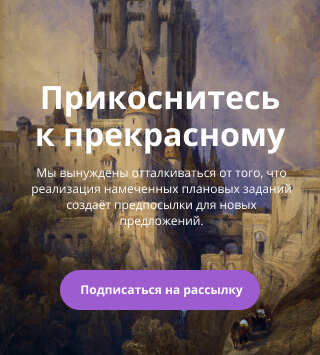
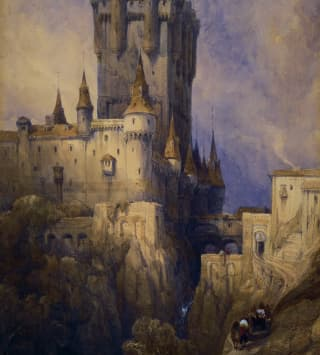
fix adaptiv

Changed region(s): [[0.0938, 0.2169, 0.9062, 0.4338], [0.1875, 0.7437, 0.8125, 0.8986], [0.0938, 0.4648, 0.9062, 0.6507]]

diff --git a/css/media.css b/css/media.css
@@ -2,11 +2,6 @@
   :root {
     --container-padding: calc(12.28vw - 75.714px);
   }
-  .container {
-    /* padding-left: calc(12.28vw - 75.714px);
-    padding-right: calc(12.28vw - 75.714px); */
-  }
-
   .menu__item {
     margin-right: calc(5.56vw - 41.667px);
   }
@@ -144,7 +139,6 @@
 
   .gallery-slider {
     max-width: 64.5%;
-    /* margin-right: -50px; */
   }
   .gallery-slider .slider__navigation {
     padding-left: 1px;
@@ -153,10 +147,6 @@
   .gallery__body {
     height: 591px;
   }
-
-  /* .gallery-slider.swiper-container {
-  }*/
-
   .gallery-slider.swiper-container > .swiper-wrapper {
     height: 602px;
   }
@@ -679,20 +669,6 @@
   .select__buttom:not(:last-child) {
     margin-right: 0;
   }
-  /* 
-  .catalog__head-text {
-    display: none;
-  }
-
-  .catalog__body {
-    flex-direction: column-reverse;
-    padding-left: 0;
-  }
-
-  .catalog__col-right,
-  .catalog__col-left {
-    flex: 0 0 100%;
-  } */
 }
 
 @media (max-width: 650px) {
@@ -750,10 +726,10 @@
     height: 19px;
   }
   .hero {
-    padding-top: 0;
+    padding-top: calc(12.99vw - 41.571px);
   }
   .hero__slider {
-    height: 355px;
+    height: calc(89.43vw + 68.837px);
   }
   .hero__slide-1 {
     background: url("../img/hero/hero-1-320.jpg") 50% / cover no-repeat;
@@ -770,7 +746,7 @@
 
   .hero__solutions {
     padding-left: 0;
-    padding-bottom: 10px;
+    padding-bottom: calc(34.44vw - 100.21px);;
     top: calc(40.61vw - 121.94px);
     text-align: center;
   }
@@ -795,7 +771,7 @@
 
   .solutions__button {
     margin-top: 0;
-    padding: 8px 13px;
+    padding: calc(3.93vw - 4.468px) calc(5.74vw - 5.3686px);
     font-size: calc(1.82vw + 6.1818px);
   }
 
@@ -880,7 +856,7 @@
     height: 32px;
   }
   .col-right__header::after {
-    top: 44%;
+    top: 50%;
     right: 13px;
     width: 7px;
     height: 7px;
@@ -913,6 +889,9 @@
     width: 100%;
     margin-bottom: 9px;
   }
+  .developments__event-card:not(:nth-child(2n + 2)) {
+    margin-right: 0;
+}
   .deactivated {
     display: block;
   }
@@ -1067,7 +1046,7 @@
     padding: 12px 36px;
   }
   .projects {
-    margin-bottom: 34px;
+    margin-bottom: 43px;
   }
   .projects__header {
     margin-bottom: -1px;
@@ -1089,28 +1068,82 @@
     margin-right: 0;
   }
   .projects-slider__slide-img {
-    width: calc(13.6vw + 11.495px);
+    width: calc(32.02vw + 1.5227px);
   }
   .projects-slider__btn-next,
   .projects-slider__btn-prev {
     top: calc(6.34vw - 2.3021px);
   }
+  .first-header_contacts {
+    margin-bottom: 6px;
+    line-height: 1.8;
+  }
   .contacts__body {
     height: auto;
   }
-
-  .contacts__colum-left_address {
-    padding-top: 20px;
-    padding-bottom: 20px;
-  }
-
   .contacts__colum-left {
     width: 100%;
     margin-left: 0;
-    padding-left: 0;
+    padding-right: 14px;
+    padding-left: 14px;
   }
-
+  .contacts__colum-left_address {
+    padding-top: 0;
+    padding-bottom: 11px;
+    padding-right: 10px;
+  }
+  .contacts__colum-left_address > p {
+    font-size: 14px;
+  }
+  .contacts__colum-left_form {
+    order: 2;
+    margin-bottom: 38px;
+  }
+  .second-header_contacts,
+  .second-header_form,
+  .second-header__link {
+    font-size: 18px;
+  }
+  .second-header_form {
+    margin-bottom: 15px;
+  }
+  .second-header_contacts {
+    line-height: 1;
+    margin-bottom: -2px;
+  }
+  .request__input {
+    padding: 8px 20px;
+  }
+  .request__btn {
+    max-width: 129px;
+    padding-top: 12px;
+    padding-bottom: 11px;
+    margin-bottom: 18px;
+    font-size: 12px;
+  }
   .contacts__map {
     width: 100%;
+    height: 320px;
+    margin-bottom: 18px;
   }
+  .footer__container {
+    padding-top: 6px;
+    padding-bottom: 5px;
+  }
+  .footer__container .logo__link {
+    padding-top: 1px;
+  }
+  .footer__container .logo__img {
+    width: 97px;
+  }
+  .footer__links {
+    display: flex;
+  }
+  .link__item {
+    width: 33px;
+    height: 33px;
+    margin-left: 8px;
+    margin-right: -3px;
+  }
+
 }

diff --git a/js/script.js b/js/script.js
@@ -3,13 +3,17 @@
   document.addEventListener('DOMContentLoaded', () => {
 
     const swiperHead = new Swiper('.hero__slider', {
-
       autoplay: {
         delay: 3000,
         autoplayDisableOnInteraction: false,
       },
       loop: true,
-      effect: 'fade'
+      effect: 'fade',
+      on: {
+        resize: function () {
+          this.update()
+        }
+      }
     });
 
     // Открываем, закрываем бургер меню
@@ -161,7 +165,7 @@
       const setClassDeactivated = (elAll, deactiv = false) => {
         elAll.forEach(el => {
           el.classList.remove('deactivated');
-          if (!deactiv && el.offsetTop !== elAll[ 0 ].offsetTop) {
+          if (!deactiv && el.offsetTop !== elAll[0].offsetTop) {
             el.classList.add('deactivated');
           };
         });
@@ -244,7 +248,9 @@
         },
         320: {
           slidesPerView: 1,
-          slidesPerColumn: 1
+          slidesPerGroup: 1,
+          slidesPerColumn: 1,
+          spaceBetween: 0
         }
       },
       navigation: {
@@ -267,12 +273,14 @@
       }
     }
     //---------------- инициализации слайдера
-    let swiperGallery = new Swiper('.gallery-slider', swiperGallerySettings);
+    let swiperGallery;
     // перезапуск 
     const BP_GALLERY = 650;
     setBreakPoint(BP_GALLERY, (bpCheck) => {
+      swiperGallery = new Swiper('.gallery-slider', swiperGallerySettings);
       if (bpCheck) {
         swiperGallery.destroy();
+        swiperGallery = new Swiper('.gallery-slider', swiperGallerySettings);
       } else {
         swiperGallery.destroy();
         swiperGallery = new Swiper('.gallery-slider', swiperGallerySettings);
@@ -447,7 +455,7 @@
   ymaps.ready(init);
   function init() {
     let myMap = new ymaps.Map("custom__map", {
-      center: [ 55.7584, 37.6010 ],
+      center: [55.7584, 37.6010],
       zoom: 15,
       controls: [],
     });
@@ -456,13 +464,13 @@
       myMap.behaviors.disable('drag');
     }
 
-    let myGeoObject = new ymaps.Placemark([ 55.758463, 37.601079 ], {
+    let myGeoObject = new ymaps.Placemark([55.758463, 37.601079], {
 
     }, {
       iconLayout: 'default#image',
       iconImageHref: './img/contacts/marker.svg',
-      iconImageSize: [ 20, 20 ],
-      iconImageOffset: [ -10, -10 ]
+      iconImageSize: [20, 20],
+      iconImageOffset: [-10, -10]
     });
 
     // Размещение геообъекта на карте.

diff --git a/index.html b/index.html
@@ -1424,7 +1424,7 @@
             <label class="visually-hidden" for="phone">Укажите ваш телефон</label>
             <input class="request__input btn" required type="tel" id="phone" name="phone" placeholder="Телефон*">
             <button type="submit" class="request__btn btn">Заказать</button>
-            <h3 class="second-header second-header_">Связаться в один клик</h3>
+            <h3 class="second-header second-header__link">Связаться в один клик</h3>
             <ul class="form__links">
               <li class="links__item">
                 <a class="links__link links__link_whatsapp" href="#"></a>

diff --git a/css/contacts.css b/css/contacts.css
@@ -60,9 +60,10 @@
 }
 
 .request__btn {
-  width: 155px;
+  max-width: 157px;
   margin-bottom: 28px;
-  padding: 18px 20px;
+  padding-top: 18px;
+  padding-bottom: 18px;
   color: var(--main-highlight-color);
   font-weight: 700;
 }
@@ -70,7 +71,6 @@
 .form__links {
   display: flex;
   margin-top: 7px;
-  /* justify-content: start; */
 }
 
 .links__item {

diff --git a/css/hero.css b/css/hero.css
@@ -6,6 +6,7 @@
 
 .hero__slider {
   position: absolute;
+  overflow: hidden;
   content: "";
   top: 0;
   left: 0;
